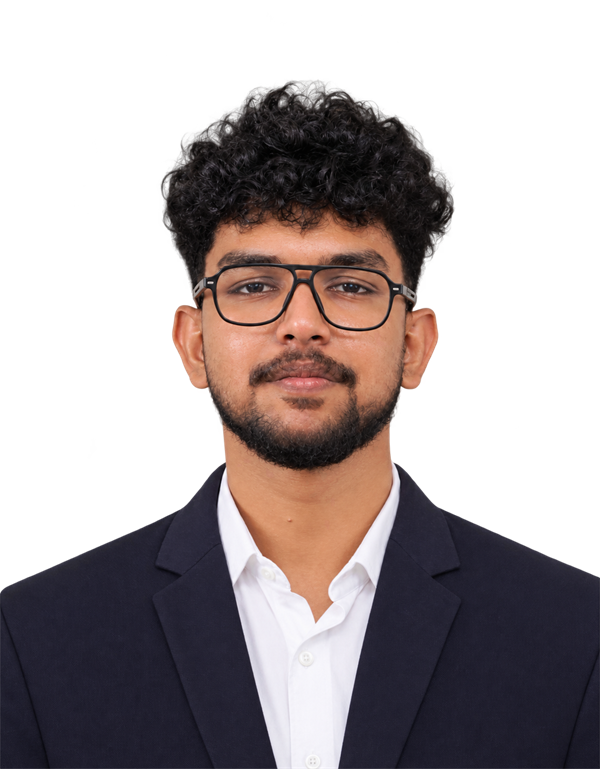
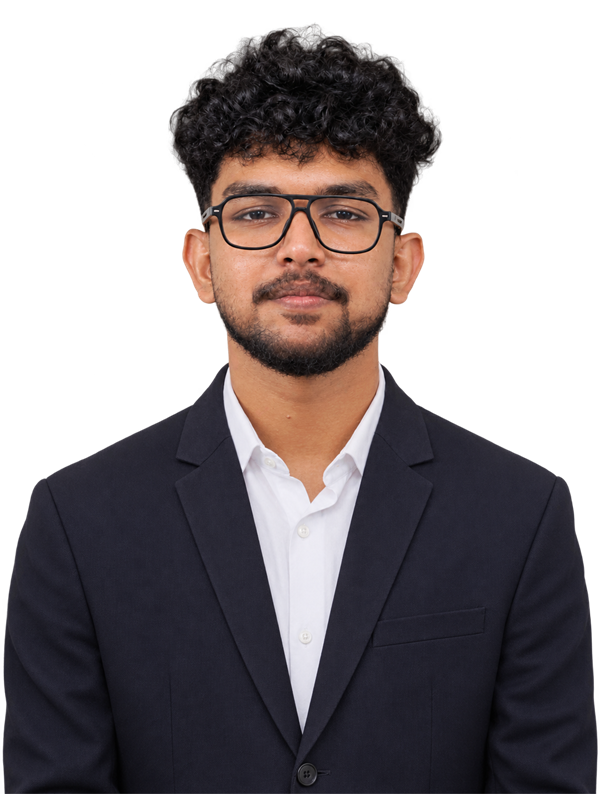
Extend portrait to show shoulders

diff --git a/src/components/portfolio/Hero.tsx b/src/components/portfolio/Hero.tsx
@@ -219,7 +219,7 @@ export function Hero() {
             src={portrait}
             alt=""
             width={600}
-            height={769}
+            height={794}
             loading="eager"
             decoding="async"
           />
@@ -269,7 +269,7 @@ export function Hero() {
             src={portrait}
             alt=""
             width={600}
-            height={769}
+            height={794}
             loading="eager"
             decoding="async"
           />
